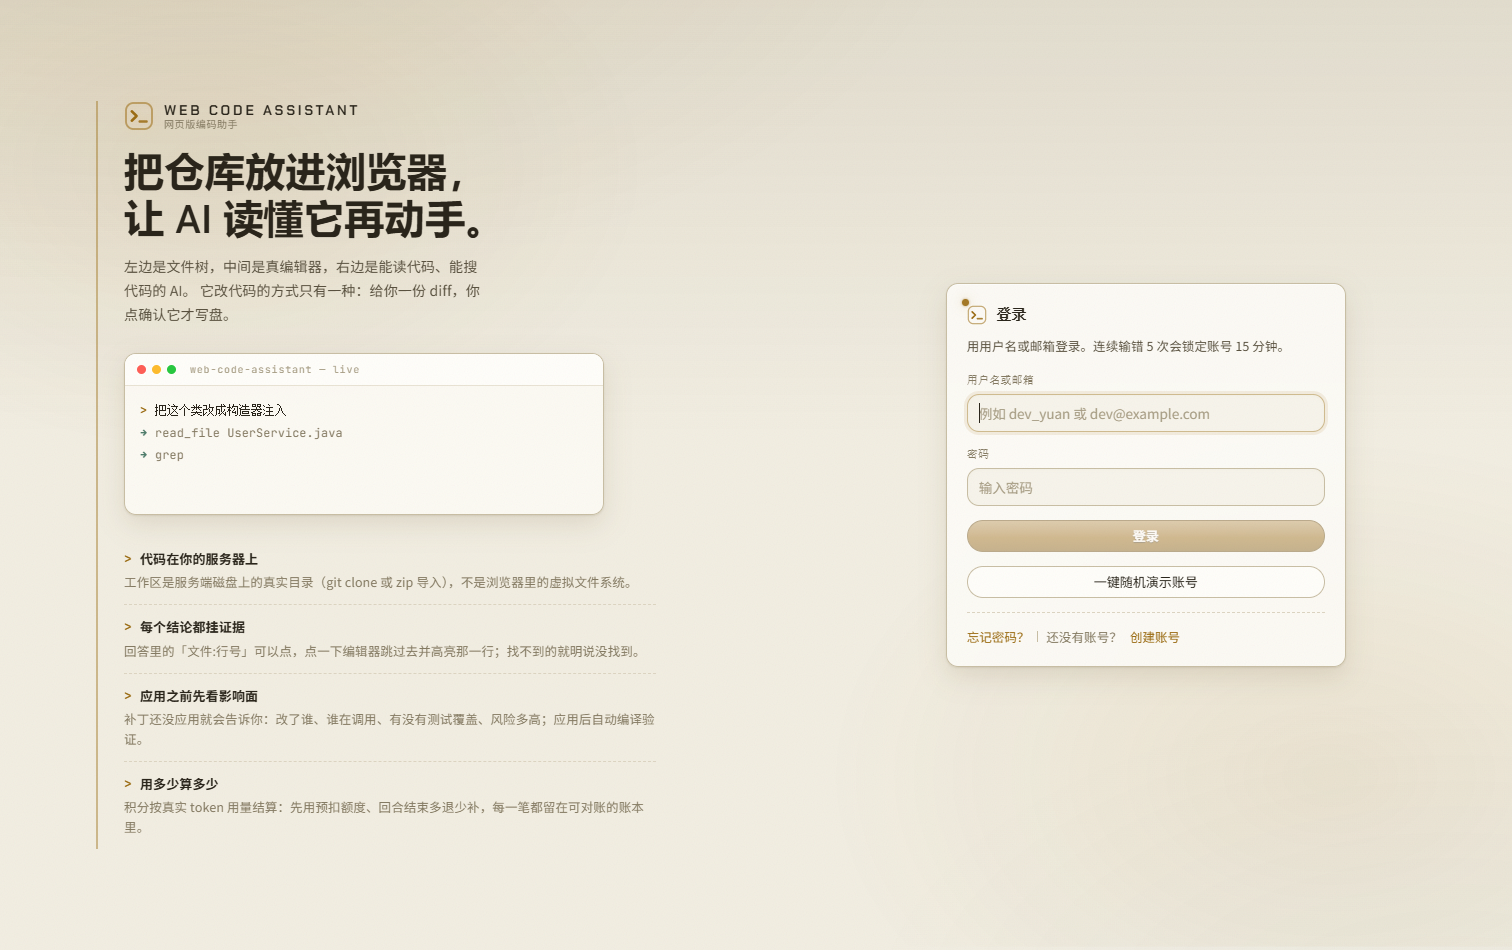
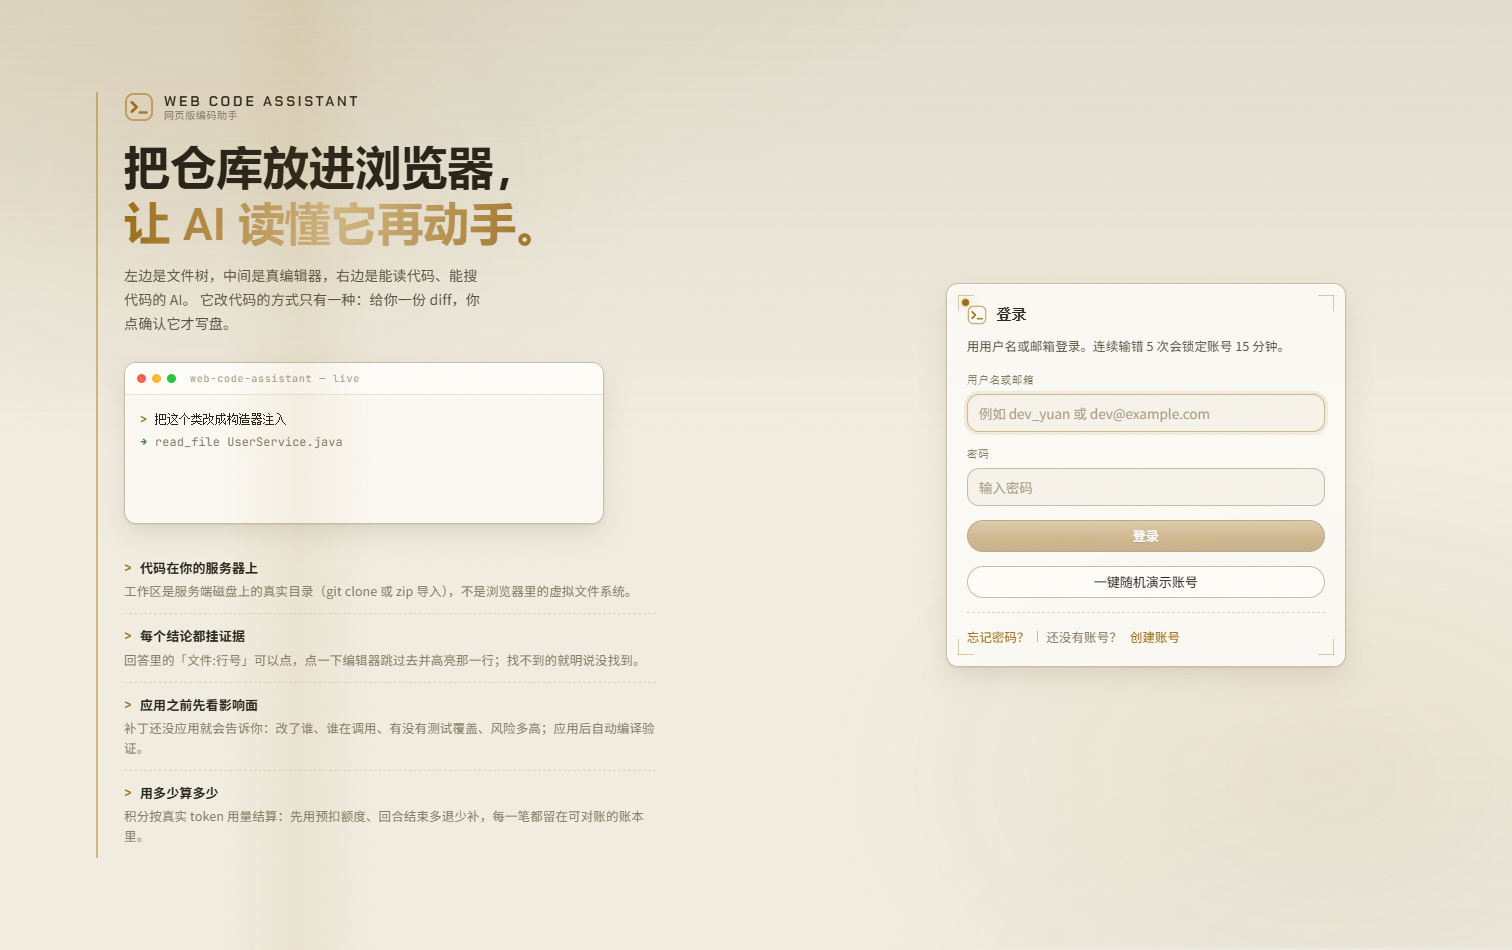
批26 胶片冲印：对话流胶片齿孔条 + 补丁相纸取景框 + 登录页金渐变大字
- 工具卡/计划卡左缘 2px 刻线升级为 7px 胶片齿孔条（repeating-gradient），live 计划卡齿孔呼吸变金（显影中）
- 补丁卡升级曝光相纸：四角取景框刻线（8 层渐变伪元素）+ 顶部胶片刻度带，hover 对焦点亮
- 助手消息头前加微型取景角帧标
- 登录页标题放大至 clamp(30-46px)，第二行金渐变（background-clip:text，从 --signal 推导三主题自动适配）
- 登录卡四角取景框刻线 + 英雄区 13s 扫描光带（auth-sweep，峰值透明度 0.07）
- 契约剧本 30 工具卡断言随刻线换代更新（TOOL_HOLES）；35/46 零破坏
- 新增剧本 48-film-develop / 48b-film-capture；e2e 四基线 83/65/114/15 全绿

Changed region(s): [[0.0622, 0.0916, 0.4041, 0.4884], [0.0622, 0.58, 0.4352, 0.8853], [0.0622, 0.5189, 0.4041, 0.5495]]

diff --git a/frontend/src/styles/global.css b/frontend/src/styles/global.css
@@ -7660,3 +7660,203 @@ button.risk-chip:hover {
   border-left: 1px solid var(--line-soft);
   padding-left: 14px;
 }
+
+/* ═══════════════════════════════════════════════════════════════════
+   批26「胶片冲印」：把暗房隐喻推到对话流和登录页
+   —— 胶片齿孔条 / 补丁相纸取景框 / 登录页金渐变大字 + 扫描光带
+   ═══════════════════════════════════════════════════════════════════ */
+
+/* ── 1. 工具卡 / 计划卡：左缘换成胶片齿孔条 ──
+   原来的 2px 刻线升级成 7px 宽的齿孔条：均匀打孔像 35mm 胶片的边缘。
+   计划卡 live 时齿孔变金 —— 「显影中」；落库后回雾蓝灰。 */
+.tool-card,
+.plan-card {
+  position: relative;
+  border-left: none;
+  padding-left: 24px;
+}
+
+.tool-card::before,
+.plan-card::before {
+  content: '';
+  position: absolute;
+  top: 7px;
+  bottom: 7px;
+  left: 6px;
+  width: 7px;
+  border-radius: 2px;
+  background: repeating-linear-gradient(
+    180deg,
+    var(--cyan) 0 3px,
+    transparent 3px 8px
+  );
+  opacity: 0.5;
+  pointer-events: none;
+  transition: opacity var(--dur-2) var(--ease-soft);
+}
+
+.tool-card:hover::before,
+.plan-card:hover::before {
+  opacity: 0.9;
+}
+
+.plan-card-live::before {
+  background: repeating-linear-gradient(
+    180deg,
+    var(--signal) 0 3px,
+    transparent 3px 8px
+  );
+  opacity: 0.85;
+  animation: safe-light 2.2s var(--ease-soft) infinite alternate;
+}
+
+/* ── 2. 补丁卡：曝光相纸 ──
+   四角取景框刻线（与 ws-card 同语言但四角全上）+ 顶部胶片刻度带。
+   紫是补丁的身份色，hover 时对焦点亮。 */
+.patch-card {
+  position: relative;
+}
+
+/* 顶部胶片刻度带：一排细密竖刻度，像胶片边缘的曝光齿 */
+.patch-card::before {
+  content: '';
+  position: absolute;
+  top: 0;
+  left: 12px;
+  right: 12px;
+  height: 5px;
+  background: repeating-linear-gradient(
+    90deg,
+    var(--violet) 0 2px,
+    transparent 2px 10px
+  );
+  opacity: 0.32;
+  pointer-events: none;
+  transition: opacity var(--dur-2) var(--ease-soft);
+}
+
+.patch-card:hover::before {
+  opacity: 0.7;
+}
+
+/* 四角取景框：一个伪元素全覆盖，8 层渐变各画半边 —— 圆角处内缩 6px */
+.patch-card::after {
+  content: '';
+  position: absolute;
+  inset: 6px;
+  pointer-events: none;
+  background:
+    linear-gradient(var(--violet-dim), var(--violet-dim)) 0 0 / 14px 1px,
+    linear-gradient(var(--violet-dim), var(--violet-dim)) 0 0 / 1px 14px,
+    linear-gradient(var(--violet-dim), var(--violet-dim)) 100% 0 / 14px 1px,
+    linear-gradient(var(--violet-dim), var(--violet-dim)) 100% 0 / 1px 14px,
+    linear-gradient(var(--violet-dim), var(--violet-dim)) 0 100% / 14px 1px,
+    linear-gradient(var(--violet-dim), var(--violet-dim)) 0 100% / 1px 14px,
+    linear-gradient(var(--violet-dim), var(--violet-dim)) 100% 100% / 14px 1px,
+    linear-gradient(var(--violet-dim), var(--violet-dim)) 100% 100% / 1px 14px;
+  background-repeat: no-repeat;
+  opacity: 0.75;
+  transition: opacity var(--dur-2) var(--ease-soft);
+}
+
+.patch-card:hover::after {
+  opacity: 1;
+}
+
+/* ── 3. 助手消息帧标：消息头前一枚微型取景角 ── */
+.msg-role-assistant .msg-head::before {
+  content: '';
+  flex: none;
+  width: 7px;
+  height: 7px;
+  border-top: 2px solid var(--signal);
+  border-left: 2px solid var(--signal);
+  opacity: 0.75;
+}
+
+/* ── 4. 登录页：第一屏拉满 ── */
+.auth-title {
+  font-size: clamp(30px, 4vw, 46px);
+  font-weight: 700;
+  letter-spacing: 0.005em;
+  line-height: 1.22;
+}
+
+/* 第二行金渐变：从 --signal 推导，三主题自动适配（ivory 纸底上也成立） */
+.auth-title-gold {
+  background: linear-gradient(
+    100deg,
+    var(--signal) 0%,
+    color-mix(in srgb, var(--signal) 45%, #fff6e0) 48%,
+    var(--signal) 100%
+  );
+  -webkit-background-clip: text;
+  background-clip: text;
+  -webkit-text-fill-color: transparent;
+  color: transparent;
+}
+
+/* 登录卡对角刻线：四角取景框（同补丁卡工艺，色随 --signal），
+   和左上角那盏安全灯呼吸点共存 —— 一个是设备信号，一个是取景对焦 */
+.auth-wrap-v2 .auth-form-wrap .card::after {
+  content: '';
+  position: absolute;
+  inset: 11px;
+  pointer-events: none;
+  background:
+    linear-gradient(var(--signal-line), var(--signal-line)) 0 0 / 16px 1px,
+    linear-gradient(var(--signal-line), var(--signal-line)) 0 0 / 1px 16px,
+    linear-gradient(var(--signal-line), var(--signal-line)) 100% 0 / 16px 1px,
+    linear-gradient(var(--signal-line), var(--signal-line)) 100% 0 / 1px 16px,
+    linear-gradient(var(--signal-line), var(--signal-line)) 0 100% / 16px 1px,
+    linear-gradient(var(--signal-line), var(--signal-line)) 0 100% / 1px 16px,
+    linear-gradient(var(--signal-line), var(--signal-line)) 100% 100% / 16px 1px,
+    linear-gradient(var(--signal-line), var(--signal-line)) 100% 100% / 1px 16px;
+  background-repeat: no-repeat;
+  opacity: 0.8;
+}
+
+/* 扫描光带：一条极淡的竖光带每 13s 从左缓扫到右 —— 暗房里那道
+   从门缝漏进来的光。峰值透明度压在 0.06，看得见但绝不抢戏。 */
+.auth-hero::after {
+  content: '';
+  position: fixed;
+  top: 0;
+  bottom: 0;
+  left: -12%;
+  width: 10vw;
+  pointer-events: none;
+  z-index: 2;
+  background: linear-gradient(
+    90deg,
+    transparent,
+    color-mix(in srgb, var(--signal) 7%, transparent),
+    transparent
+  );
+  animation: auth-sweep 13s linear infinite;
+}
+
+@keyframes auth-sweep {
+  0% {
+    left: -12%;
+    opacity: 0;
+  }
+  8% {
+    opacity: 1;
+  }
+  92% {
+    opacity: 1;
+  }
+  100% {
+    left: 104%;
+    opacity: 0;
+  }
+}
+
+@media (prefers-reduced-motion: reduce) {
+  .plan-card-live::before,
+  .auth-hero::after {
+    animation: none !important;
+  }
+}
+

diff --git a/frontend/src/pages/LoginPage.tsx b/frontend/src/pages/LoginPage.tsx
@@ -232,7 +232,7 @@ export function LoginPage({ onAuthenticated }: LoginPageProps) {
         <h1 className="auth-title">
           把仓库放进浏览器，
           <br />
-          让 AI 读懂它再动手。
+          <span className="auth-title-gold">让 AI 读懂它再动手。</span>
         </h1>
 
         <p className="auth-lead">
